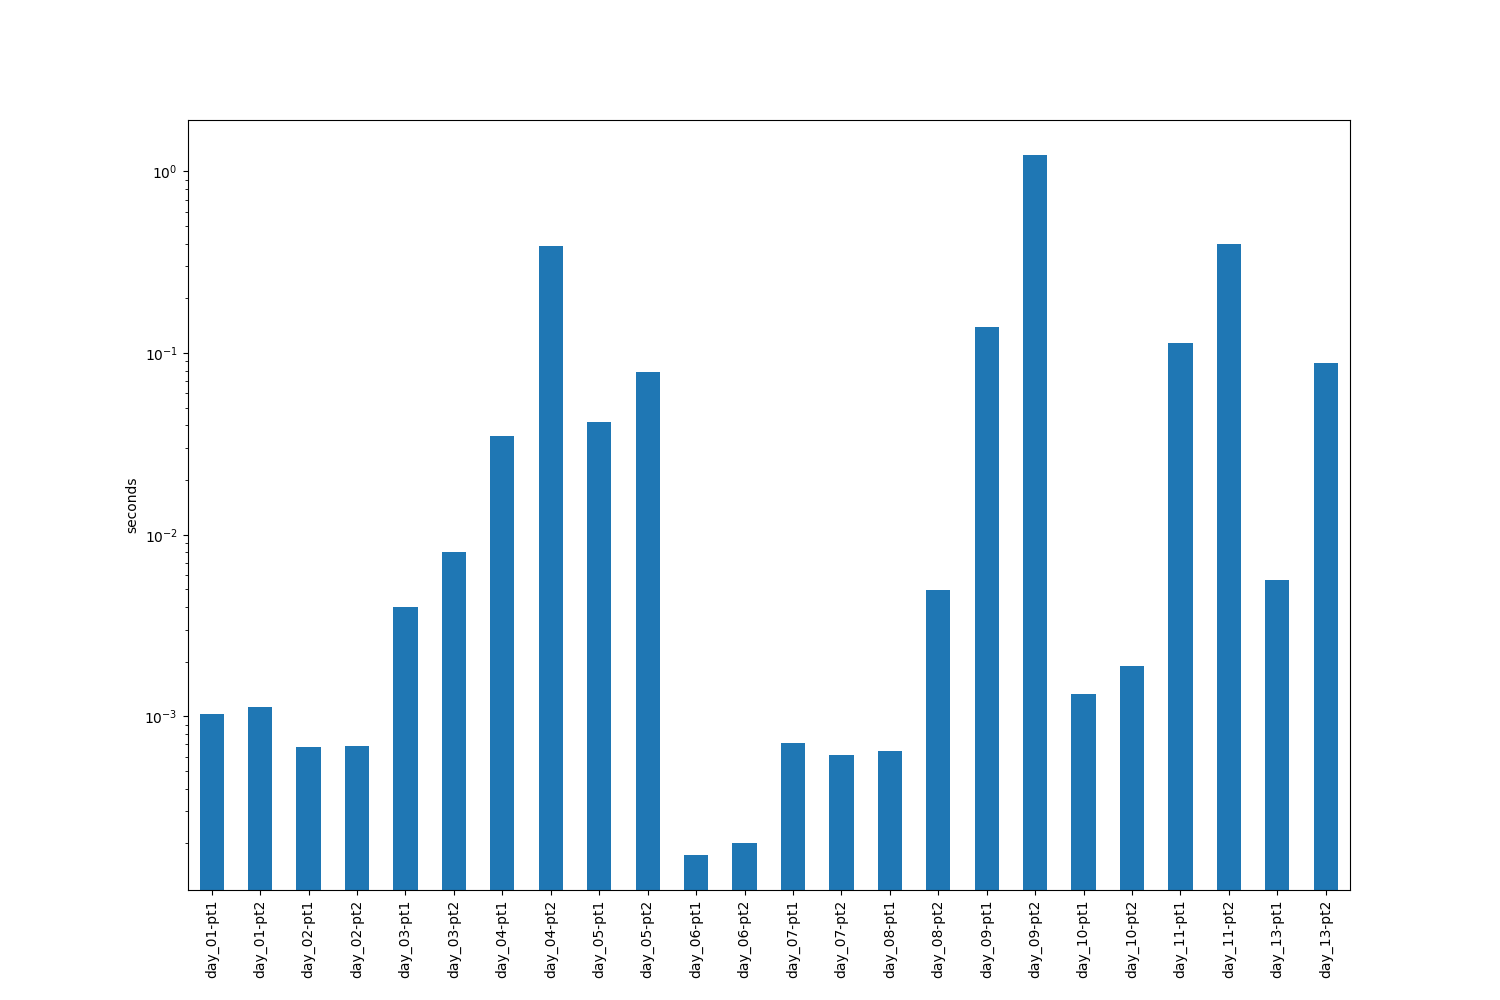
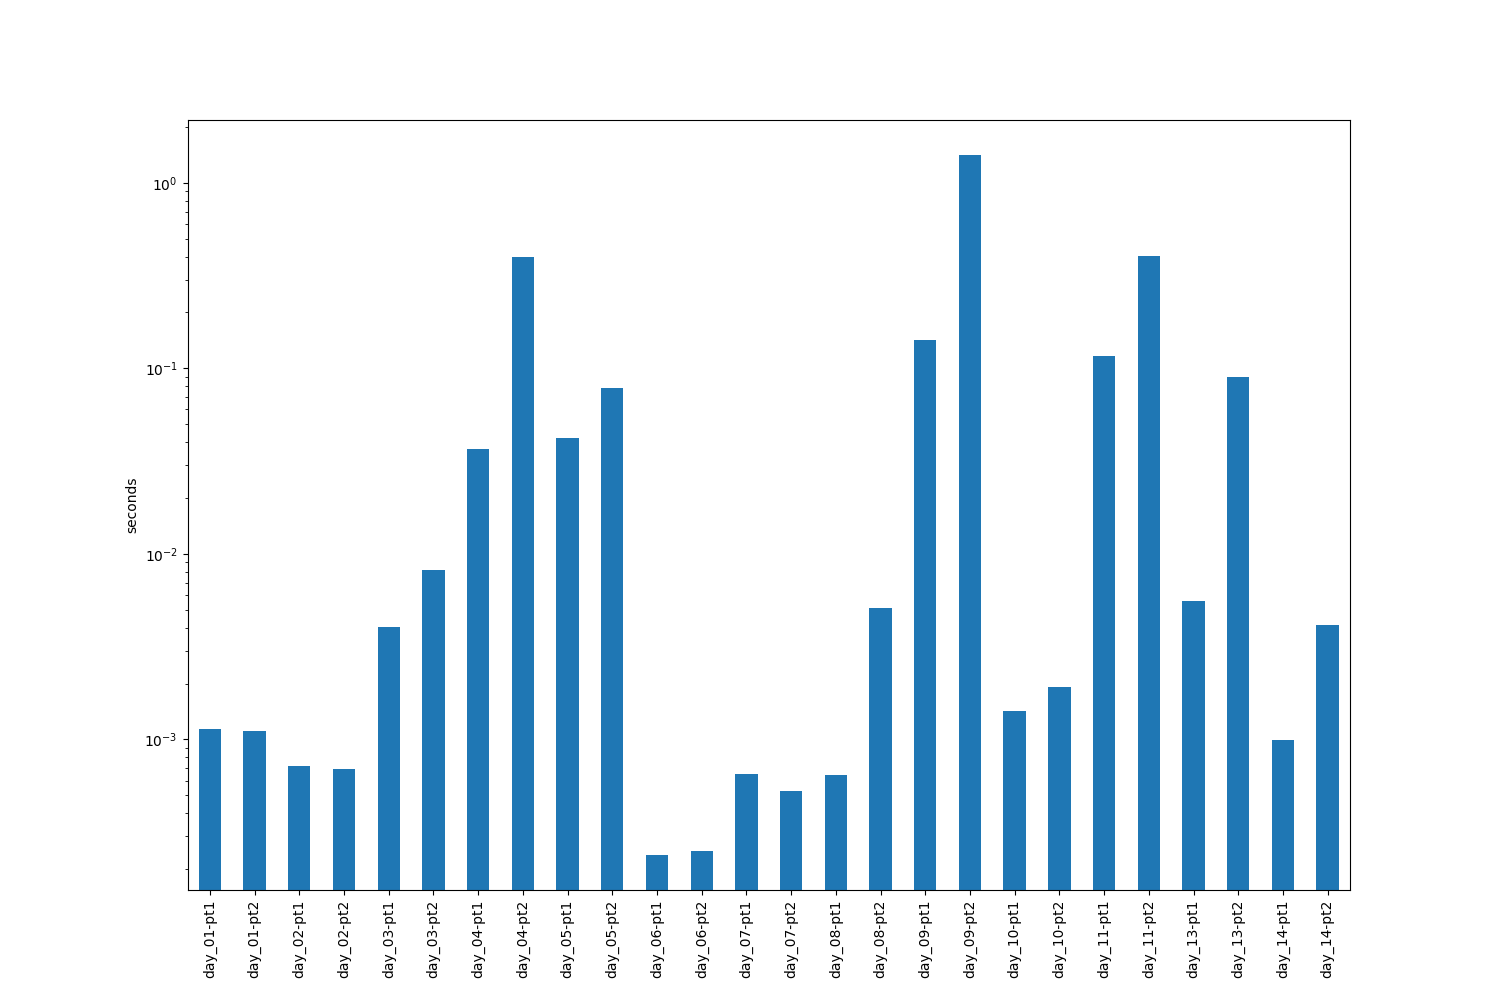
day_14

diff --git a/aoc/day_14.py b/aoc/day_14.py
@@ -1,0 +1,106 @@
+from collections import Counter
+
+
+def part_one(file_path: str):
+    """
+    for the optimal polymer after 10 iterations, returns the difference
+    between the counts of the most and least common element
+
+    Args:
+        file_path (str):
+
+    Returns:
+        int: difference between the counts of the most and least common element
+    """
+
+    return optimal_polymer(file_path, 10)
+
+
+def part_two(file_path: str) -> int:
+    """
+    for the optimal polymer after 40 iterations, returns the difference
+    between the most and least common element
+
+    Args:
+        file_path (str):
+
+    Returns:
+        int: difference between the counts of the most and least common element
+    """
+
+    return optimal_polymer(file_path, 40)
+
+
+def optimal_polymer(file_path: str, n: int) -> int:
+    """
+    runs the optimal polymer simulation for n iterations
+
+    Args:
+        file_path (str): str
+        n (int): number of interations
+
+    Returns:
+        int: difference between the counts of the most and least common element
+    """
+
+    # read file
+    with open(file_path) as f:
+        lines = f.readlines()
+
+    # get the original polymer
+    polymer = lines[0].strip()
+
+    # get the count of each neighbouring pair of chars in polymer
+    # e.g abcab -> {(a,b):2, (b,c):1, (c,a):1}
+    pair_count = dict(Counter(zip(polymer[:-1], polymer[1:])))
+
+    # counts of characters in polymers
+    char_count = dict(Counter(polymer))
+
+    # get which neighbouring pairs produce which two neighbouring pairs
+    pair_mapping = {
+        tuple(line[:2]): [(line[0], line.strip()[-1]), (line.strip()[-1], line[1])]
+        for line in lines[2:]
+    }
+
+    # get which neighbouring pair produces an extra character
+    char_mapping = {tuple(line[:2]): line.strip()[-1] for line in lines[2:]}
+
+    # for n iterations
+    for _ in range(n):
+
+        # get the old pair count because everything happens simulataneously
+        old_pair_count = pair_count.copy()
+
+        # for each pair in the last polymer
+        for pair in old_pair_count.keys():
+
+            # get the number of occurences
+            val = old_pair_count[pair]
+
+            # get the added character
+            char2 = char_mapping[pair]
+
+            # if in dictionary then add
+            if char2 in char_count.keys():
+                char_count[char2] += val
+            # else set value
+            else:
+                char_count[char2] = val
+            # for the both created pairs
+            for pair2 in pair_mapping[pair]:
+                # if in dictionary then add
+                if pair2 in pair_count.keys():
+                    pair_count[pair2] += val
+                # else set valu
+                else:
+                    pair_count[pair2] = val
+            # subtract value from existing pair
+            pair_count[pair] -= val
+    # difference between the counts of the most and least common element
+    return max(char_count.values()) - min(char_count.values())
+
+
+if __name__ == "__main__":
+    print(part_one("aoc/inputs/day_14.txt"))
+    print(part_two("aoc/inputs/day_14.txt"))

diff --git a/tests/test_day_14.py b/tests/test_day_14.py
@@ -1,0 +1,15 @@
+from aoc.day_14 import part_one, part_two
+
+
+def test_part_one():
+
+    test_file_path = "tests/test_inputs/test_day_14.txt"
+
+    assert part_one(test_file_path) == 1588
+
+
+def test_part_two():
+
+    test_file_path = "tests/test_inputs/test_day_14.txt"
+
+    assert part_two(test_file_path) == 2188189693529
